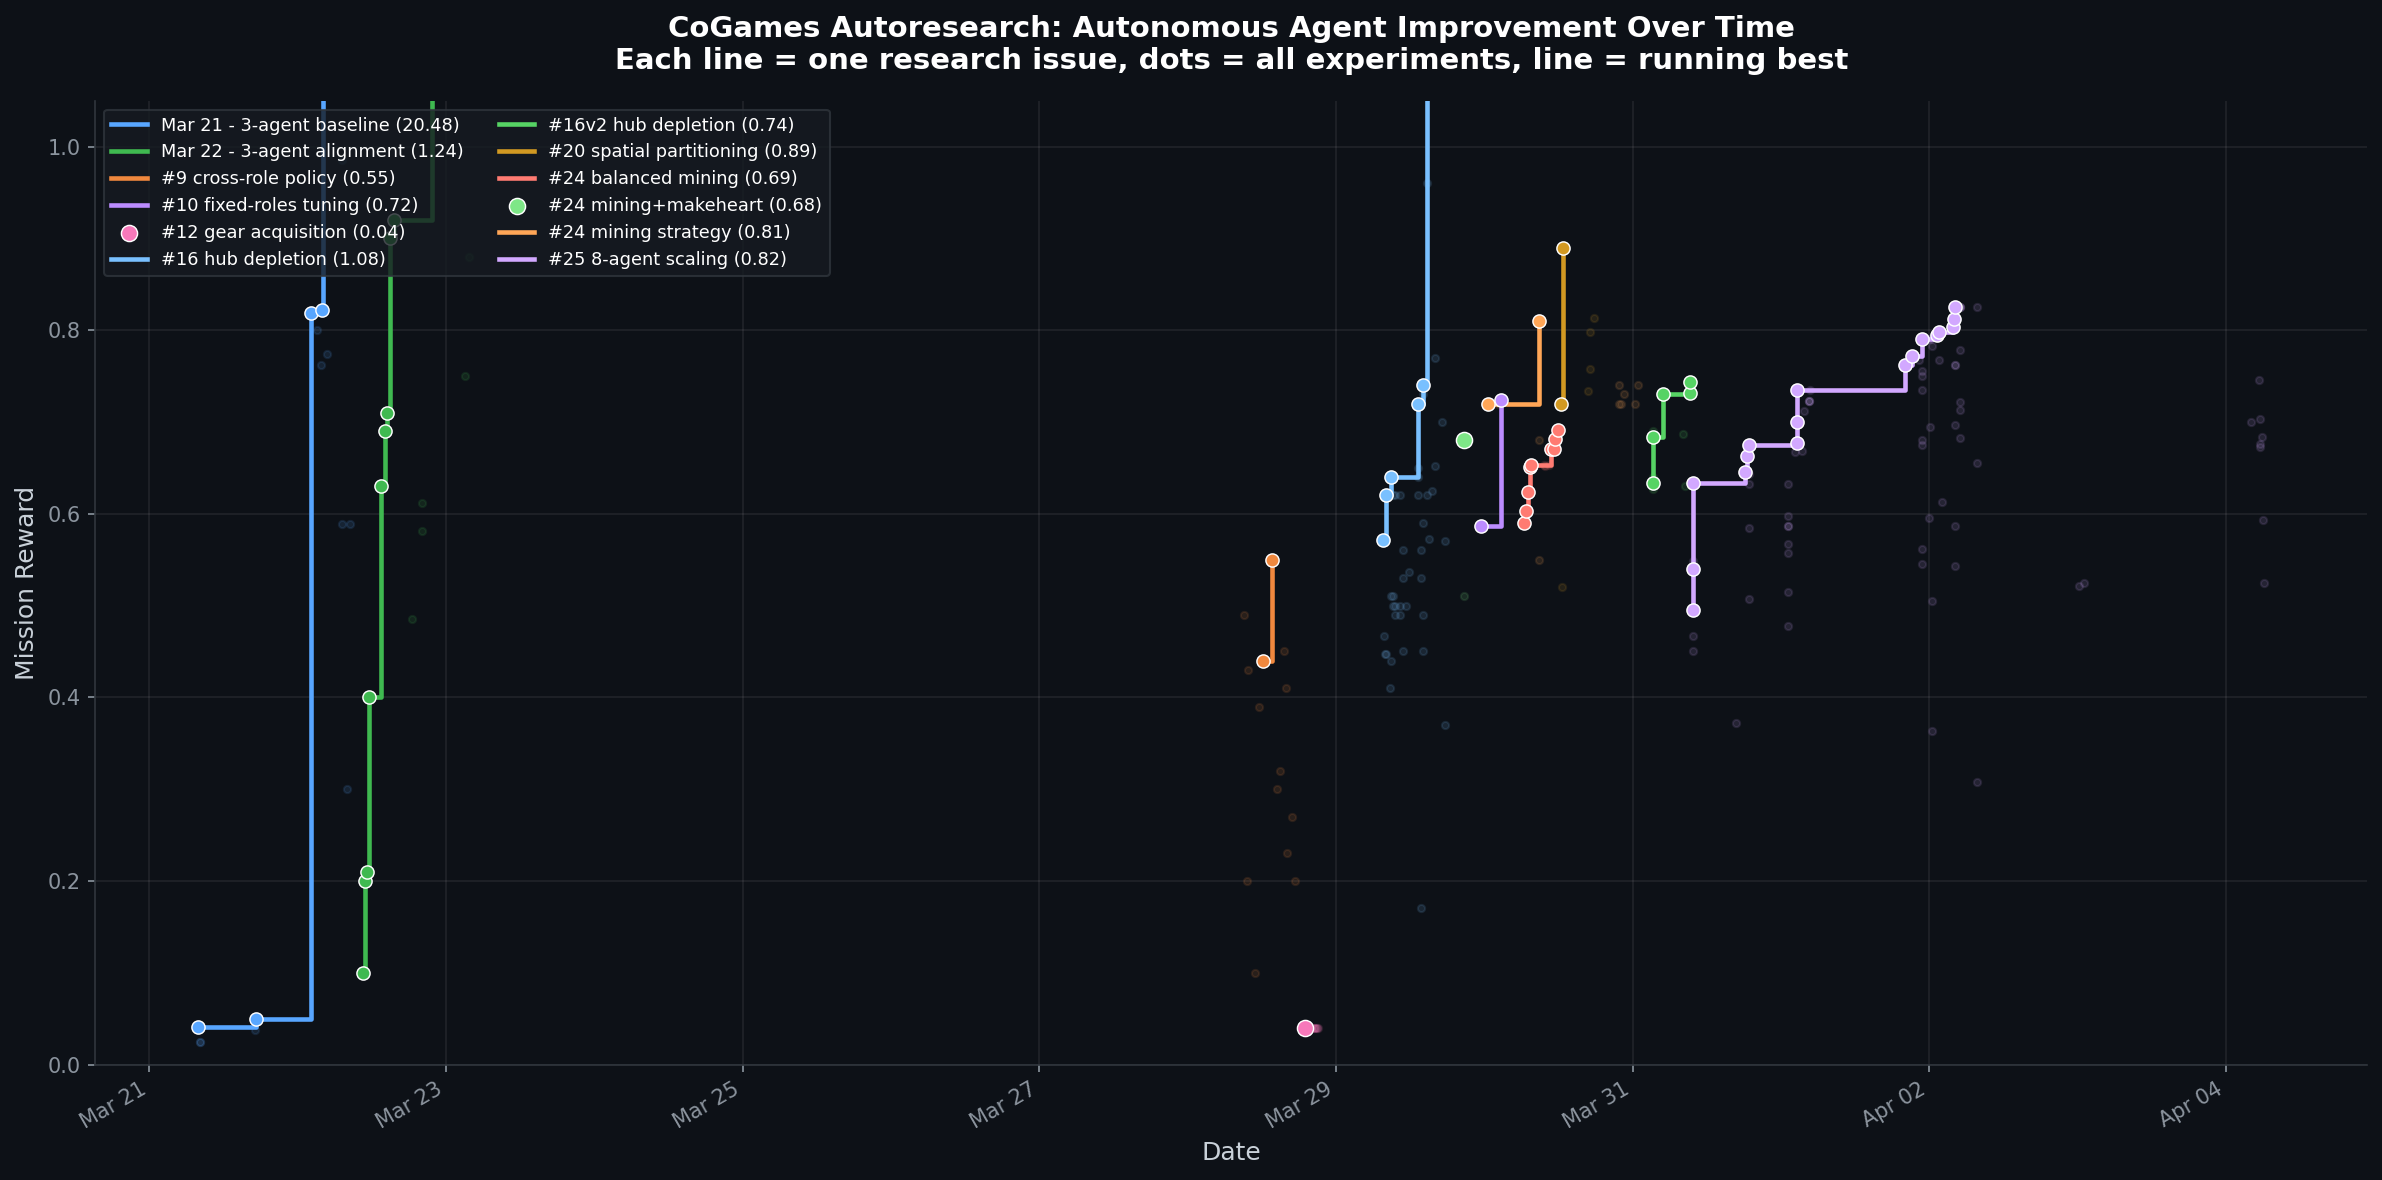
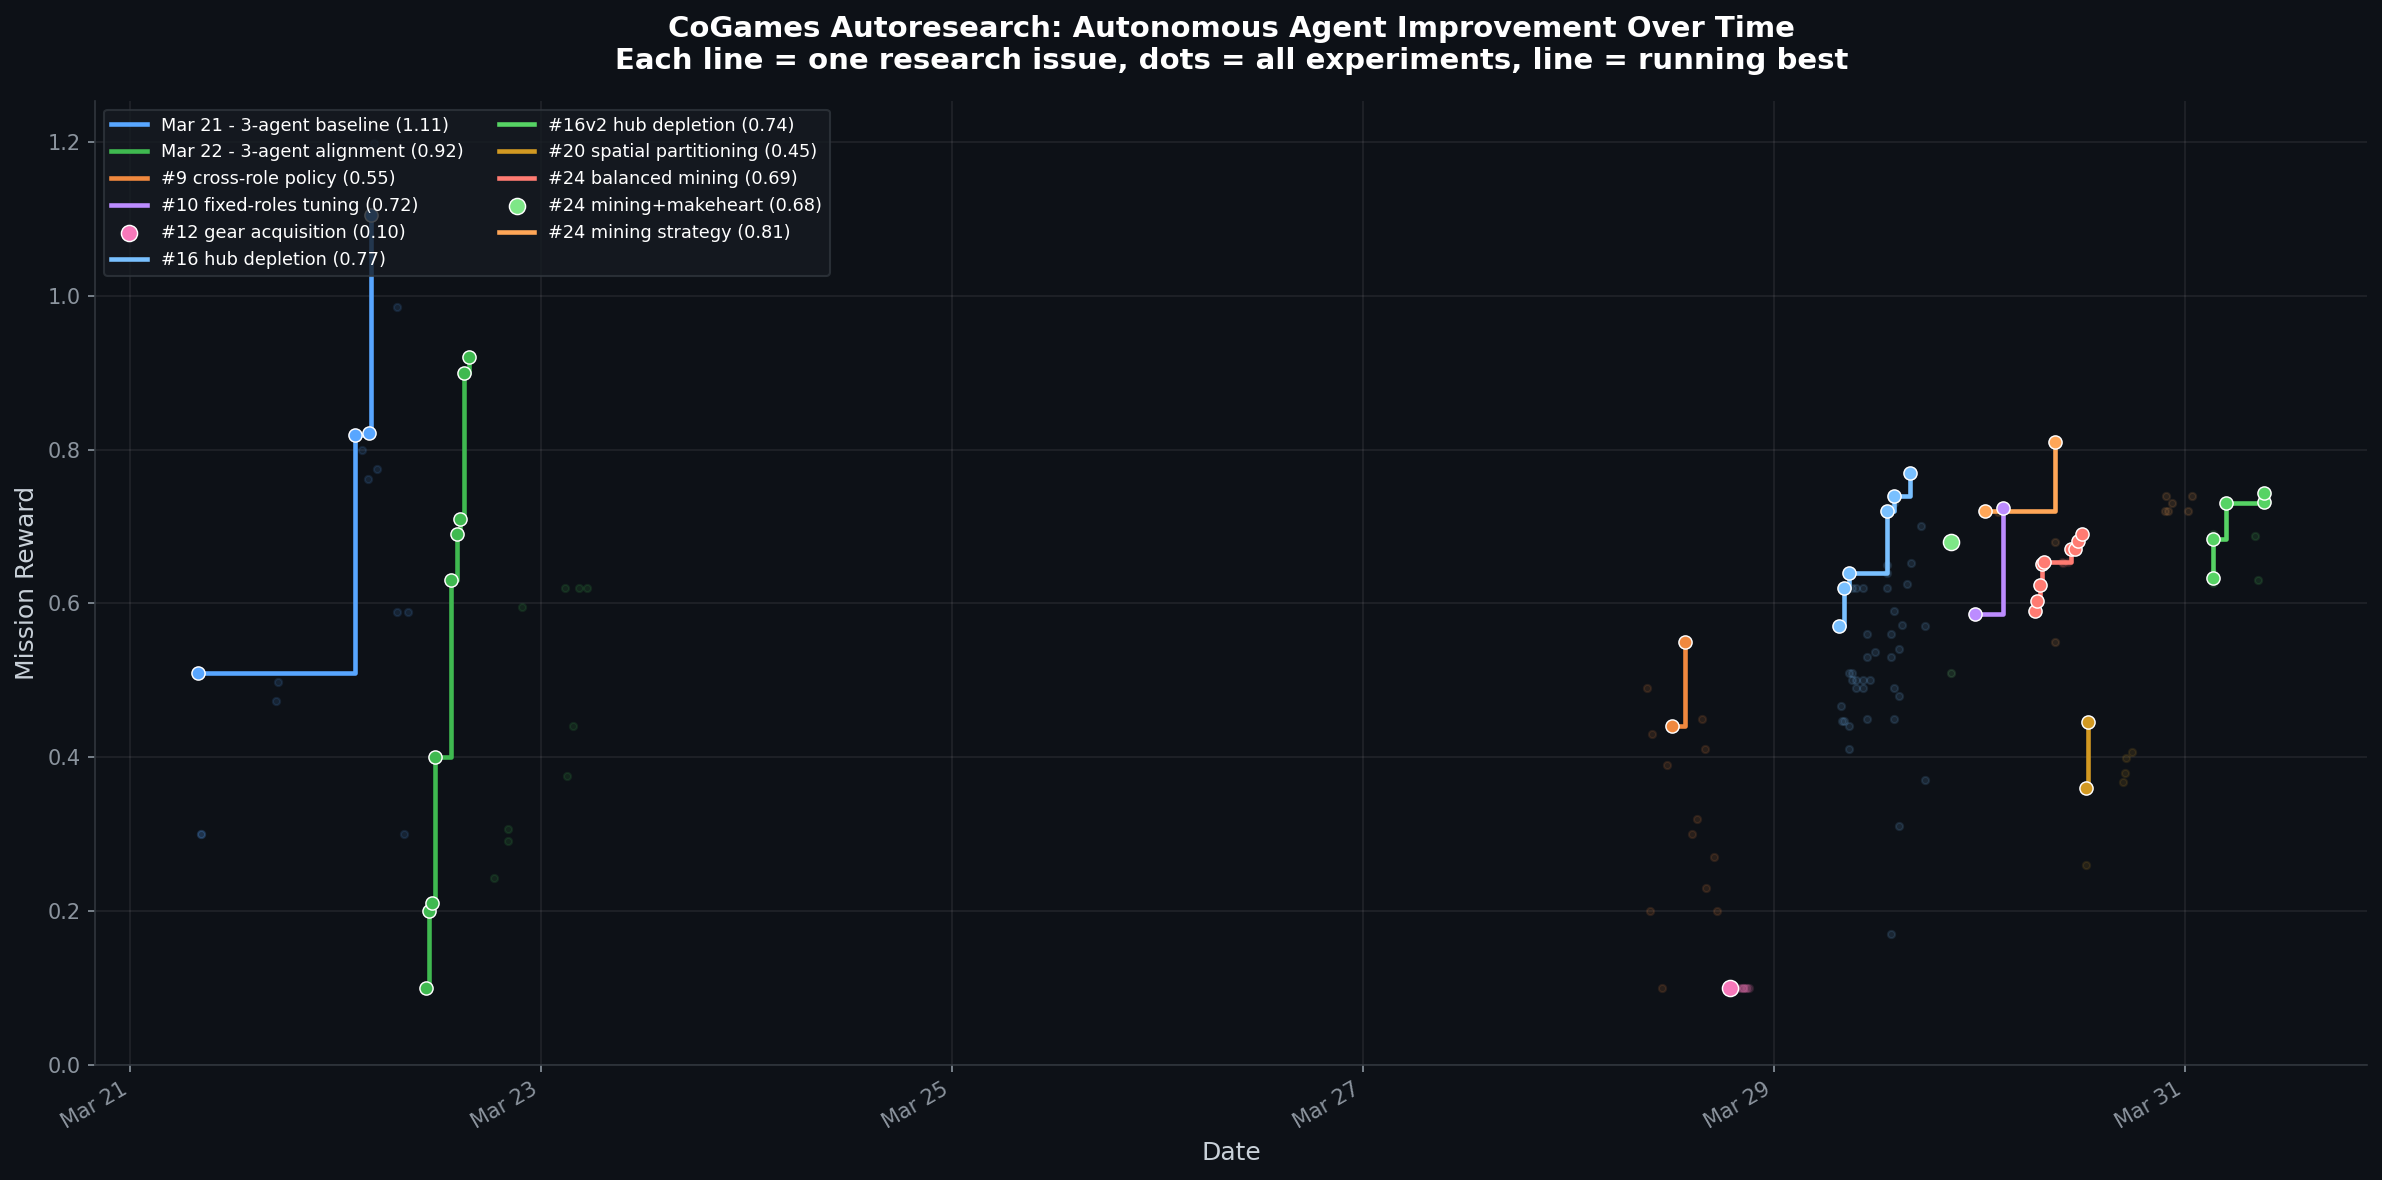
Fix autoresearch plot: normalize rewards by step count for fair comparison
Scales rewards to per-1000-step equivalent and filters outliers >1.5
so all issues are on a comparable scale.

diff --git a/scripts/plot_autoresearch_progress.py b/scripts/plot_autoresearch_progress.py
@@ -50,6 +50,15 @@ def parse_tsv(filepath, commit_dates):
             except (ValueError, TypeError):
                 continue
 
+            # Rough normalization: scale by steps to per-1000-step equivalent
+            steps_str = row.get("steps", "1000")
+            try:
+                steps = int(steps_str)
+            except (ValueError, TypeError):
+                steps = 1000
+            if steps > 0 and steps != 1000:
+                reward = reward * (1000 / steps)
+
             status = row.get("status", "").strip()
 
             # Look up date
@@ -65,6 +74,8 @@ def parse_tsv(filepath, commit_dates):
 
             points.append((dt, reward, status))
 
+    # Filter out points using different reward scales (total vs per-agent)
+    points = [(d, r, s) for d, r, s in points if r <= 1.5]
     points.sort(key=lambda x: x[0])
     return points
 
@@ -165,7 +176,7 @@ def main():
     ax.spines["right"].set_visible(False)
     ax.grid(True, alpha=0.08, color="white")
 
-    ax.set_ylim(bottom=0, top=1.05)
+    ax.set_ylim(bottom=0)
 
     legend = ax.legend(loc="upper left", fontsize=8.5, ncol=2,
                        facecolor="#161b22", edgecolor="#30363d",
